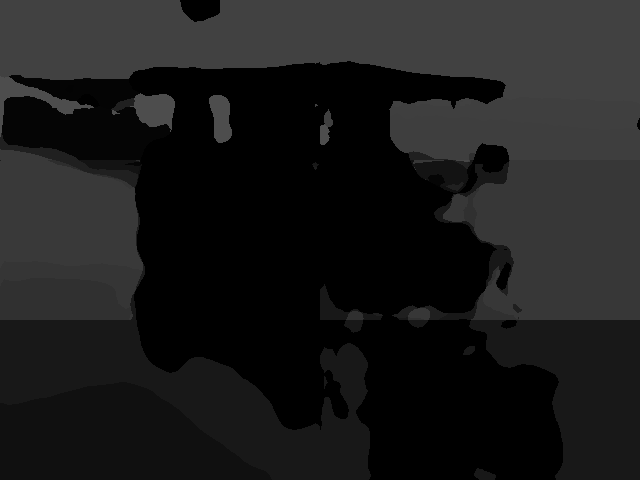
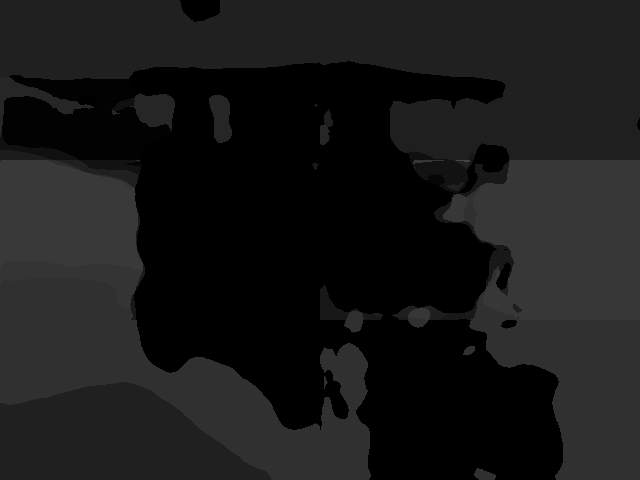
stop for now

diff --git a/lib/agents/coco_stuff_evaluator.py b/lib/agents/coco_stuff_evaluator.py
@@ -50,6 +50,7 @@ class COCOStuffEvaluator(Agent):
                     _, predicted = torch.max(Y_.data, 1)
                     predicted = predicted.float()
                     seg = self._apply_h_overlaps(predicted, seg, h, w)
+                self._show(seg)
 
                 if len(w_overlaps) != 0:
                     X = torch.stack(w_overlaps).to(self.device)
@@ -83,6 +84,12 @@ class COCOStuffEvaluator(Agent):
                 "w+") as f:
             json.dump(coco_result, f)
 
+    def _show(self, img_tensor):
+        img_tensor = img_tensor.cpu()
+        img = transforms.ToPILImage()(img_tensor)
+        img.show()
+        input("Press enter to continue...")
+
     def _resize(self, img):
         img = transforms.ToPILImage()(img)
 
@@ -97,7 +104,7 @@ class COCOStuffEvaluator(Agent):
         return transforms.ToTensor()(img)
 
     def _construct_mask(self, predicted, h, w):
-        seg = torch.zeros((h, w)).float().cuda()
+        seg = torch.full((h, w), 93).float().cuda()
         num_h_fits = h / self.WINDOW_SIZE
         num_w_fits = w / self.WINDOW_SIZE
         k = 0
@@ -111,20 +118,28 @@ class COCOStuffEvaluator(Agent):
 
     def _apply_h_overlaps(self, predicted, seg, h, w):
         num_w_fits = w / self.WINDOW_SIZE
+
+        mask = torch.zeros((h, w)).float().cuda()
         for j in range(0, floor(num_w_fits)):
             h1, h2 = h - self.WINDOW_SIZE, h
             w1, w2 = j * self.WINDOW_SIZE, (j + 1) * self.WINDOW_SIZE
-            seg[h1:h2, w1:w2] = torch.round(
-                (seg[h1:h2, w1:w2] + predicted[j, :, :]) / 2)
+            mask[h1:h2, w1:w2] = predicted[j, :, :]
+        seg[seg != 93] = round((mask[seg != 93] + seg[seg != 93]) / 2)
+        seg[seg == 93] = mask[seg == 93]
+
         return seg
 
     def _apply_w_overlaps(self, predicted, seg, h, w):
         num_h_fits = h / self.WINDOW_SIZE
+
+        mask = torch.zeros((h, w)).float().cuda()
         for i in range(0, floor(num_h_fits)):
             h1, h2 = i * self.WINDOW_SIZE, (i + 1) * self.WINDOW_SIZE
             w1, w2 = w - self.WINDOW_SIZE, w
-            seg[h1:h2, w1:w2] = torch.round(
-                (seg[h1:h2, w1:w2] + predicted[i, :, :]) / 2)
+            mask[h1:h2, w1:w2] = predicted[i, :, :]
+        seg[seg != 93] = round((mask[seg != 93] + seg[seg != 93]) / 2)
+        seg[seg == 93] = mask[seg == 93]
+
         return seg
 
     def _get_windows(self, img):
